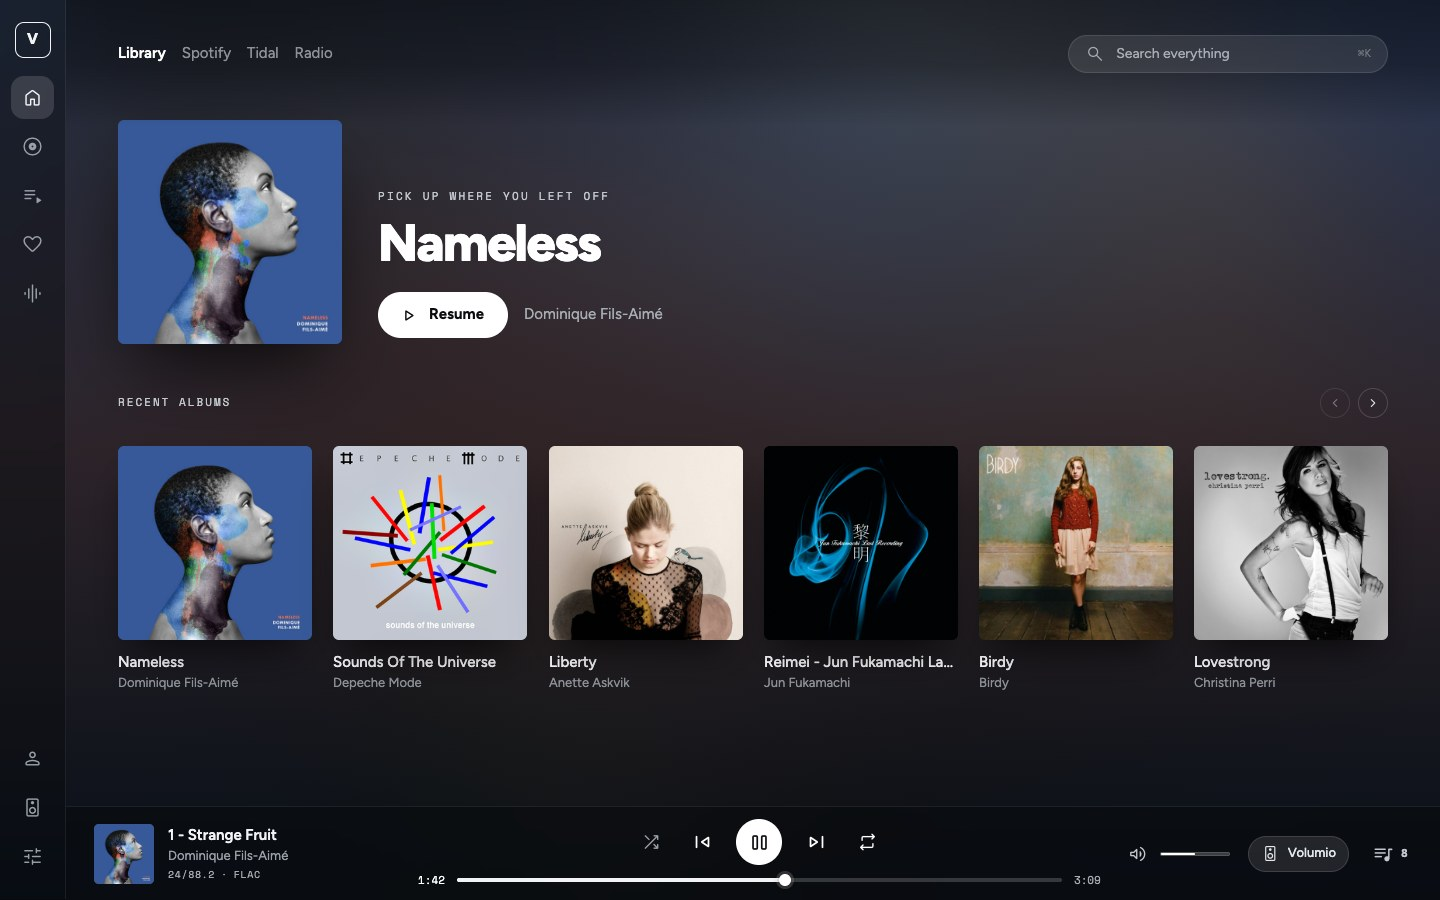
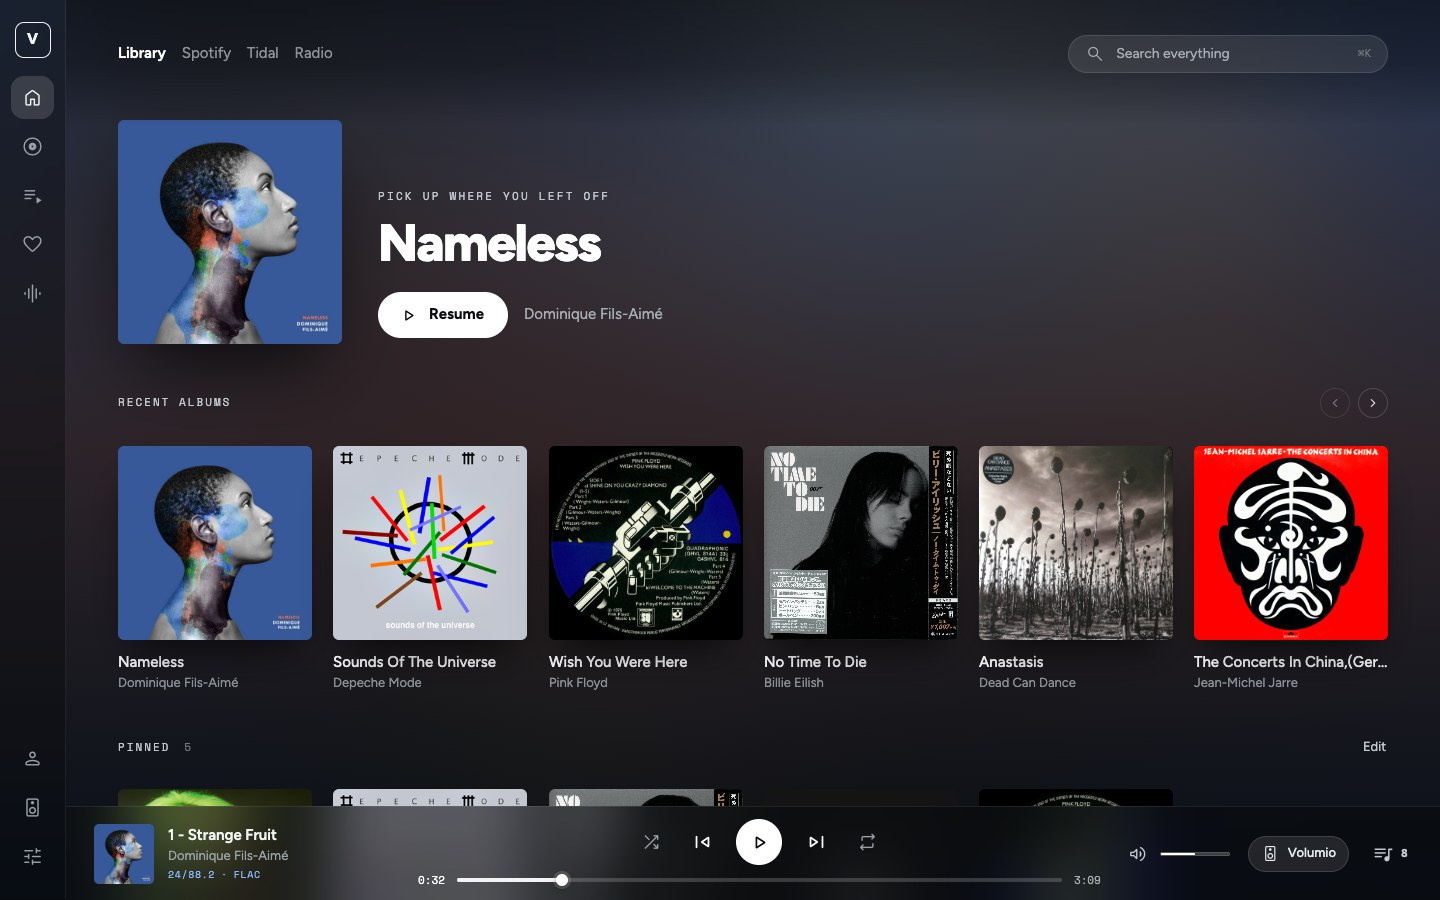
docs: README and changelog for 2.0 — ambient, lyrics, the Info face, pins, sleep timer, settings search, the companion
New screenshots: the Info and Lyrics faces, Ambient in both themes, Home with the pinned shelf,
Settings search, lyrics on a phone; the existing set retaken.

diff --git a/README.md b/README.md
@@ -13,7 +13,9 @@ Beneath the new look sits everything you already rely on. Every source, every se
 - **Made for listening in high resolution.** Bit depth, sample rate, format and source, shown with pride instead of tucked away.
 - **Seeking that invites a touch.** A generous track with a glowing handle: drag it with a finger or a mouse, or step by five seconds with the arrow keys.
 - **One fluid design.** No fixed breakpoints: it reshapes itself continuously for any screen, down to edge-to-edge on an iPhone.
-- **Dark or light.** A paper theme beside the dark one, chosen per browser or left to follow the device.
+- **Dark or light.** A paper theme beside the dark one, one choice for every screen of the player.
+- **Three faces of Now Playing.** The cover, the words as they are sung, or who this is and what record — with the way into the library.
+- **A display that rests.** After a while without a touch, the player's own screen shows the cover, the essentials and a clock, and comes back on touch.
 - **Free to try.** One line to install, one click in Settings to switch back.
 
 ![Now Playing](docs/screenshots/now-playing.jpg)
@@ -44,10 +46,15 @@ Beneath the new look sits everything you already rely on. Every source, every se
 
 **Now Playing**
 - Large cover next to the title, artist and album, sized to fill the screen at any window size.
+- Three faces, switched above the title: **Cover**, **Info** and **Lyrics**. The title and the cover never leave; only the column beneath them changes.
+- **Lyrics** from [LRCLIB](https://lrclib.net), synced to the music when the record has them: the line being sung is lit, the rest fades with distance, a tap on a line seeks to it. Plain words when that is all there is. On the phone the words slide up over the player as a panel.
+- **Info**: who plays and what record, as two rows. The artist with Wikipedia's one-line description, the year they began and the opening paragraph of their biography; the record with its label, year and track count, and on a wide screen its own paragraph. The facts come from [MusicBrainz](https://musicbrainz.org) and [Wikipedia](https://en.wikipedia.org), the picture from Wikipedia; *Artist ›* and *Album ›* open their pages in the library.
 - The real format as Volumio reports it: bit depth, sample rate, file type and streaming service (for example *24 BIT 192 kHz · FLAC · QOBUZ*), the path from the source to the output device including any resampling, and a *Bit perfect* badge when nothing touches the stream.
+- A quality badge that says what the stream is at a glance — hi-res, DSD, lossless, lossy or radio — on Now Playing, in the mini player, in every track row and on the resting display.
 - Volume, the zone and its output device, all in the header.
 - A seek bar across the full width, with elapsed, remaining and total time. Drag the handle with the mouse or a finger, or step through the track with the arrow keys.
 - *Up next* thumbnails that start the next tracks directly.
+- A **sleep timer** from the Settings menu: four presets or any number of minutes, stop the music or power the player off, the countdown on Now Playing and in the mini player while it runs.
 - Opens from the mini player with a slide-up and closes back to where you were.
 
 **Mini player**
@@ -55,15 +62,20 @@ Beneath the new look sits everything you already rely on. Every source, every se
 
 **Queue**
 - A floating panel instead of a separate page: drag to reorder, remove, shuffle, repeat, save as a playlist, clear, and the time the queue ends.
+- **Play next** and **Play last** in every row's menu, with a toast that says where the track landed and an *Undo* while it shows.
 
 **Library and sources**
-- Home with *Pick up where you left off* and recently played albums.
-- Album pages with the cover beside the track list, artist pages with albums and tracks, breadcrumbs, grid and list views, sorting, filtering and an A–Z index.
+- Home with *Pick up where you left off*, recently played albums and a shelf of **pins**: anything you keep going back to — a source, a folder, a playlist, an album, a station — pinned from its row menu, dragged into order, kept on the player so every screen shows the same shelf.
+- Album pages with the cover beside the track list, artist pages with albums and tracks, breadcrumbs, grid and list views, sorting, filtering and an A–Z index. The artists grid says how many albums each has.
+- On a streaming service's pages the search field asks the service itself — Spotify's search in Spotify, Tidal's in Tidal — instead of filtering the rows on screen.
 - Every Volumio source works as before: the music library, Web Radio, Spotify, media servers and music service plugins.
+
+**Settings**
+- A search field on the Settings landing (⌘K / Ctrl+K) that finds a page or a section of one by name — *resamp* leads straight to Audio Resampling — across Volumio's pages, the installed plugins' pages and the theme's own sections.
 
 **The player's own display**
 - *Ambient*: after a few minutes without a touch, a display the player drives (HDMI, the Touch Display plugin, a TV) shows the cover, the essentials and a clock — cover-led, clock-led or full-bleed — and comes straight back on touch. Night hours dim it; the composition drifts slowly against burn-in.
-- One theme and one set of ambient settings for every screen of the player, kept on the player by the companion plugin: set them from a phone, the display follows at once.
+- One theme, one set of ambient settings and one shelf of pins for every screen of the player, kept on the player by the [companion plugin](#the-companion-plugin): set them from a phone, the display follows at once.
 
 **Everywhere**
 - A fluid layout with no fixed breakpoints: it adapts continuously to phones, tablets, desktop browsers and unusual displays on media players.
@@ -75,13 +87,19 @@ Beneath the new look sits everything you already rely on. Every source, every se
 
 | | |
 |---|---|
+| ![Now Playing, the Info face](docs/screenshots/now-playing-info.jpg) | ![Now Playing, the Lyrics face](docs/screenshots/now-playing-lyrics.jpg) |
+| **Info** — who plays and what record | **Lyrics** — the words as they are sung |
 | ![Home](docs/screenshots/home.jpg) | ![Album](docs/screenshots/album.jpg) |
-| **Home** | **Album** |
+| **Home** — with the pinned shelf | **Album** |
 | ![Artist](docs/screenshots/artist.jpg) | ![Queue](docs/screenshots/home-queue.jpg) |
 | **Artist** | **Queue** |
+| ![Ambient](docs/screenshots/ambient.jpg) | ![Settings search](docs/screenshots/settings-search.jpg) |
+| **Ambient** — the player's display at rest | **Settings search** |
 
 <p align="center">
   <img src="docs/screenshots/phone-now-playing.jpg" width="260" alt="Now Playing on a phone">
+  &nbsp;&nbsp;
+  <img src="docs/screenshots/phone-lyrics.jpg" width="260" alt="Lyrics on a phone">
   &nbsp;&nbsp;
   <img src="docs/screenshots/phone-home.jpg" width="260" alt="Home on a phone">
 </p>
@@ -91,21 +109,19 @@ Beneath the new look sits everything you already rely on. Every source, every se
 The same screens on paper. The cover still bleeds behind everything, but the veil over it runs
 up to a warm off-white instead of down to black, and the transport turns from a white disc with
 a dark glyph into an ink disc with a paper one. Pick **Dark**, **Light** or **System** in
-Settings → Appearance; the choice is remembered in that browser, so a phone can be light while
-the screen in the living room stays dark. Until something is picked the theme is dark.
+Settings → Appearance. Until something is picked the theme is dark.
 
-A screen driven by the player itself — a display on HDMI, the Touch Display plugin — is a
-browser of its own, and nobody can touch it. That is what the **Artwork One Companion** is
-for: a small plugin the installer puts on the player, which keeps the theme and the ambient
-display settings there and pushes them to every screen. With it, Settings → Appearance gains a
-**Player's screens** row: what you pick there is what the display shows, and what any browser
-shows until it picks for itself. Without the plugin the choice stays per browser, and a display
+With the [companion plugin](#the-companion-plugin) the choice is the player's: every screen —
+the phone, the desktop browser, a display on HDMI that nobody can touch — shows the theme
+picked in Appearance, at once. Without the plugin the choice stays per browser, and a display
 can still be told with `?theme=light` (or `dark`, `system`) in the address it opens.
 
 | | |
 |---|---|
 | ![Now Playing, light](docs/screenshots/light-now-playing.jpg) | ![Album, light](docs/screenshots/light-album.jpg) |
 | **Now Playing** | **Album** |
+| ![Ambient, light](docs/screenshots/ambient-light.jpg) | |
+| **Ambient** | |
 
 <p align="center">
   <img src="docs/screenshots/phone-light-home.jpg" width="260" alt="Home on a phone, light theme">
@@ -213,11 +229,11 @@ Volumio's other themes remain in the source tree. This project only builds and p
 
 ## The companion plugin
 
-The interface is static files: it has no place on the player to keep anything, so a choice made in one browser never reached another, and a display the player drives on HDMI — which nobody can touch — could not be told anything at all. The **Artwork One Companion** (`plugin/artwork_companion`) is that place: a small Volumio plugin that keeps the theme and the ambient display settings on the player, answers a screen that asks for them, and pushes every change to all connected screens. With it, Settings → Appearance sets the theme and the ambient display for the whole player at once.
+The interface is static files: it has no place on the player to keep anything, so a choice made in one browser never reached another, and a display the player drives on HDMI — which nobody can touch — could not be told anything at all. The **Artwork One Companion** ([`plugin/artwork_companion`](plugin/artwork_companion)) is that place: a small Volumio plugin that keeps the theme, the ambient display settings and the pinned shelf on the player, answers a screen that asks for them, and pushes every change to all connected screens. With it, Settings → Appearance sets the theme and the ambient display for the whole player at once, and a pin made on the phone is on the living-room screen a moment later.
 
 - The installer puts it in `/data/plugins/miscellanea/artwork_companion`, registers it in Volumio's plugin list and restarts Volumio once so it loads; the uninstaller removes it. `--no-companion` skips it, and the interface works without it — the theme and the ambient settings then stay per browser.
 - It has no dependencies of its own: Volumio's modules (`kew`, `v-conf`) are loaded from the player's core tree. Nothing is downloaded, built or sent anywhere.
-- Contract, over Volumio's `callMethod`: `miscellanea/artwork_companion` · `getSettings {}` answers the caller with `pushArtworkSettings`; `setSettings {theme?, ambient?}` saves and pushes `pushArtworkSettings` to every screen. A key is absent until someone chooses it; a field out of range is dropped and never overwrites the stored one.
+- Contract, over Volumio's `callMethod`: `miscellanea/artwork_companion` · `getSettings {}` answers the caller with `pushArtworkSettings`; `setSettings {theme?, ambient?, pins?}` saves and pushes `pushArtworkSettings` to every screen. A key is absent until someone chooses it; a field out of range is dropped and never overwrites the stored one; a pin keeps only what a tile needs (uri, service, type, title, artwork), at most 24 of them.
 - Its page under Settings → Plugins only says where the settings are; the settings themselves live in Appearance.
 
 ## Troubleshooting
@@ -236,6 +252,7 @@ The interface is static files: it has no place on the player to keep anything, s
 - Artwork One is not part of Volumio's built-in interface list, so installing it needs SSH once.
 - A few labels the theme introduces, such as *Up next*, are in English only for now. Everything that comes from Volumio uses Volumio's translations.
 - Plugins that bring their own custom HTML pages keep their own look inside the theme.
+- Lyrics and the Info face's facts come from the internet — LRCLIB, MusicBrainz and Wikipedia, asked by the browser directly, without keys or accounts. Without a connection those faces stay empty, and a record these services do not know shows what Volumio knows. Everything else works offline.
 
 ## Contributing
 

diff --git a/CHANGELOG.md b/CHANGELOG.md
@@ -4,6 +4,35 @@ All notable changes to this project are documented here. The format is based on
 [Keep a Changelog](https://keepachangelog.com/en/1.1.0/) and this project adheres to
 [Semantic Versioning](https://semver.org/spec/v2.0.0.html).
 
+## [2.0.0] - 2026-09-23
+
+### Added
+
+- **Ambient.** After a few minutes without a touch, a display the player drives — HDMI, the Touch Display plugin, a TV — gives way to the cover, the essentials and a clock, and comes straight back on touch. Three layouts (cover-led, clock-led, full-bleed), a 12 or 24 hour clock, night hours that dim it, and a slow drift against burn-in. Set in Settings → Appearance; `?ambient=now` in the address shows it at once, `?kiosk=1` tells a browser it is the player's own display.
+- **The Artwork One Companion**, a small plugin the installer puts on the player. It keeps the theme, the ambient settings and the pinned shelf there and pushes every change to every screen, so a choice made on the phone is on the living-room display a moment later and a display nobody can touch can be told anything at all. `--no-companion` skips it.
+- **Lyrics**, a third face of Now Playing beside Cover and Info: the words from LRCLIB, synced to the music when the record has them, plain when not; a tap on a line seeks to it. On the phone they slide up over the player as a panel.
+- **Info**, redrawn: who plays and what record, as two rows — the artist with Wikipedia's one-line description, the year they began and their opening paragraph; the record with its label, year and track count, and on a wide screen its paragraph. From MusicBrainz and Wikipedia, asked by the browser without keys; *Artist ›* and *Album ›* lead into the library.
+- **Play next** and **Play last** in every row's menu, with a toast that says where the track landed and an *Undo* while it shows.
+- **Quality badges** — hi-res, DSD, lossless, lossy, radio — on Now Playing, in the mini player, in track rows and on the resting display.
+- **A sleep timer** from the Settings menu: presets or any number of minutes, stop or power off, the countdown on Now Playing and in the mini player.
+- **Pins** on Home: a shelf under Recent albums for anything one keeps going back to — a source, a folder, a playlist, an album, a station — pinned from its row menu, reordered by drag, unpinned from the tile's own menu, shared by every screen through the companion.
+- **Settings search** on the Settings landing (⌘K / Ctrl+K): finds a page or a section of one by name, across Volumio's pages, the installed plugins' pages and the theme's own.
+- On a streaming service's pages the search field asks the service itself instead of filtering the rows on screen.
+- The artists grid says how many albums each artist has; the artist page's album tiles carry the same hover and menu as the library's cards.
+- The Now Playing album line carries the record's year, from the library.
+
+### Changed
+
+- The theme is one choice for the whole player when the companion is there, not one per browser.
+- The Lyrics face keeps only the title above the words; the signal path reads on the Cover face.
+- The artists grid's rows sit further apart.
+
+### Fixed
+
+- A context menu near an edge opened off-screen or under the mini player; it now opens toward the free side, under the sticky head and above the mini player, and a pin's menu on Home is no longer cut to its tile.
+- The Settings landing on a phone was 216 px wide.
+- Lyrics: a track without an artist made LRCLIB answer 400; it goes straight to the search by title now.
+
 ## [1.6.2] - 2026-09-21
 
 ### Fixed
